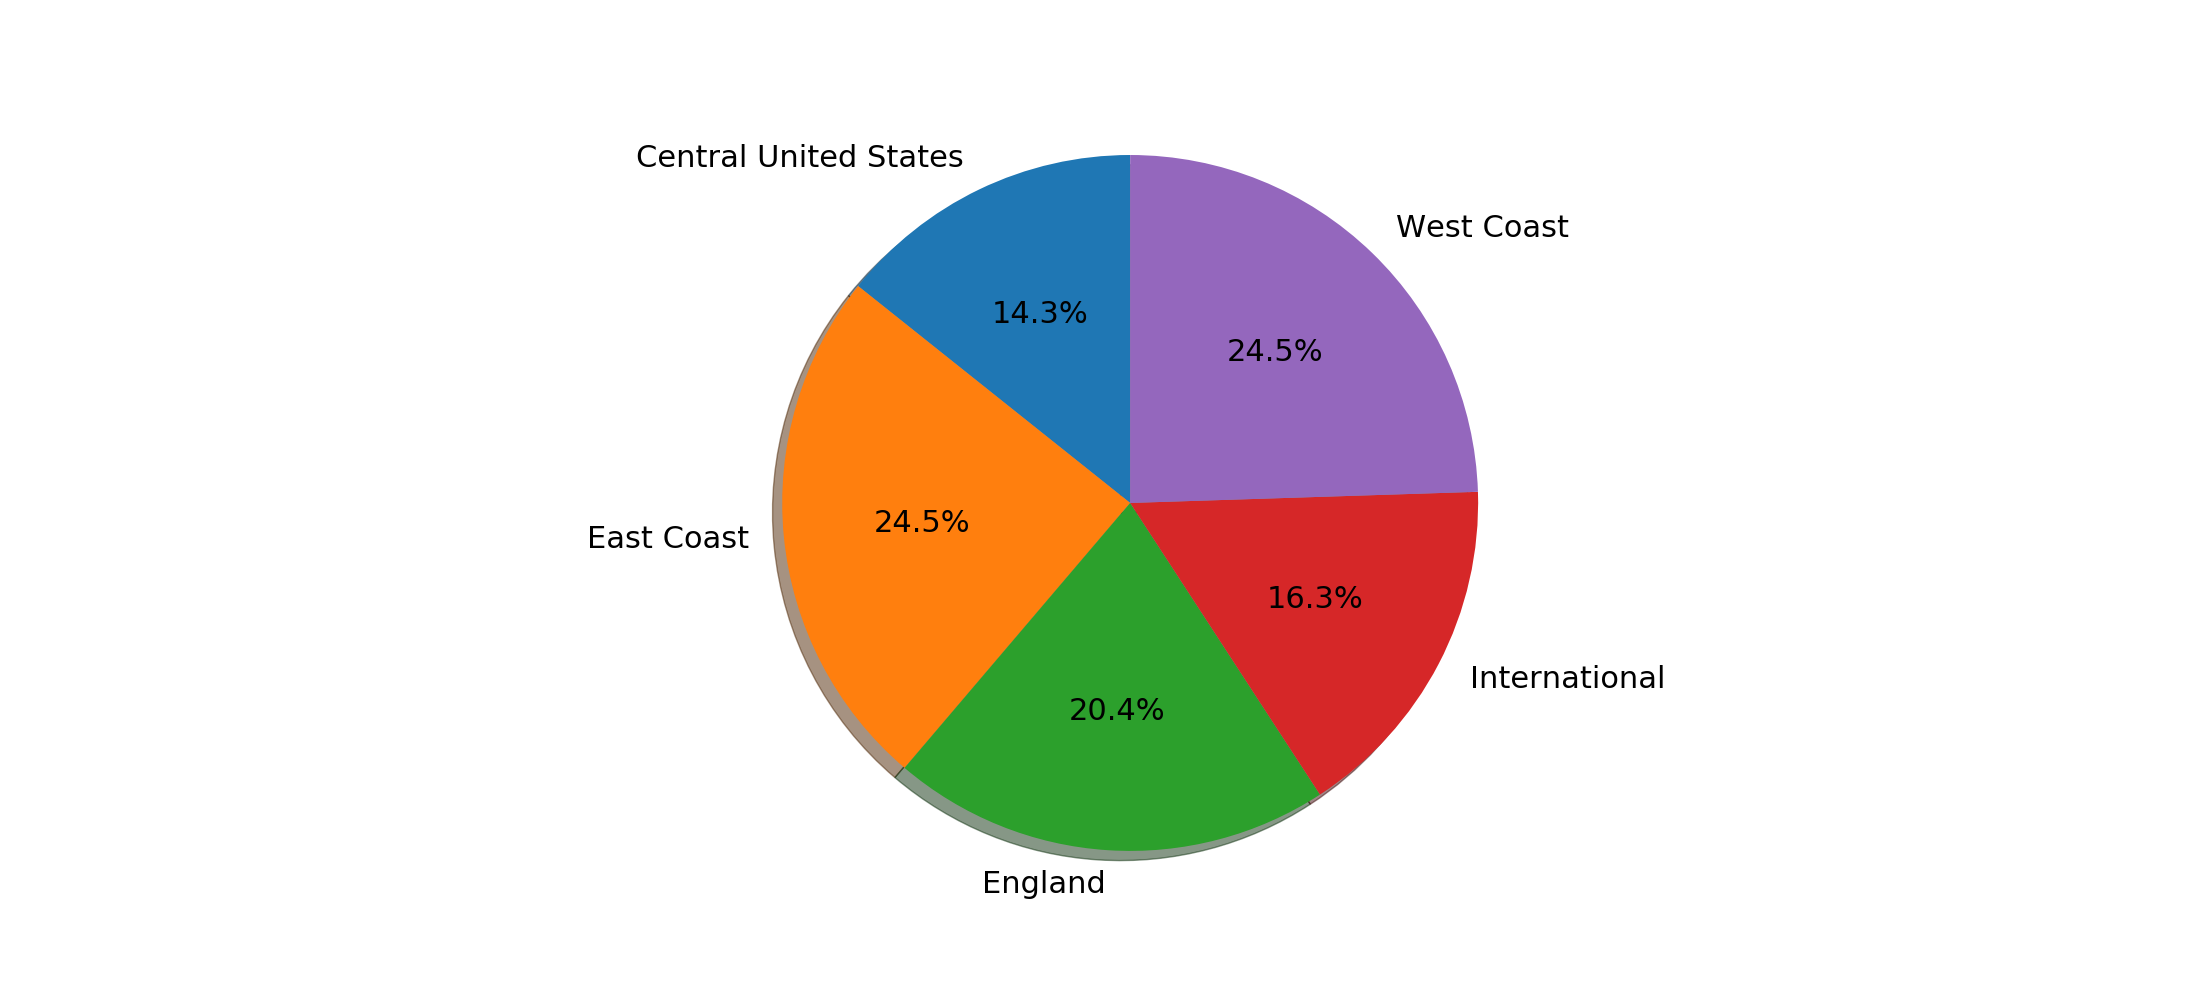
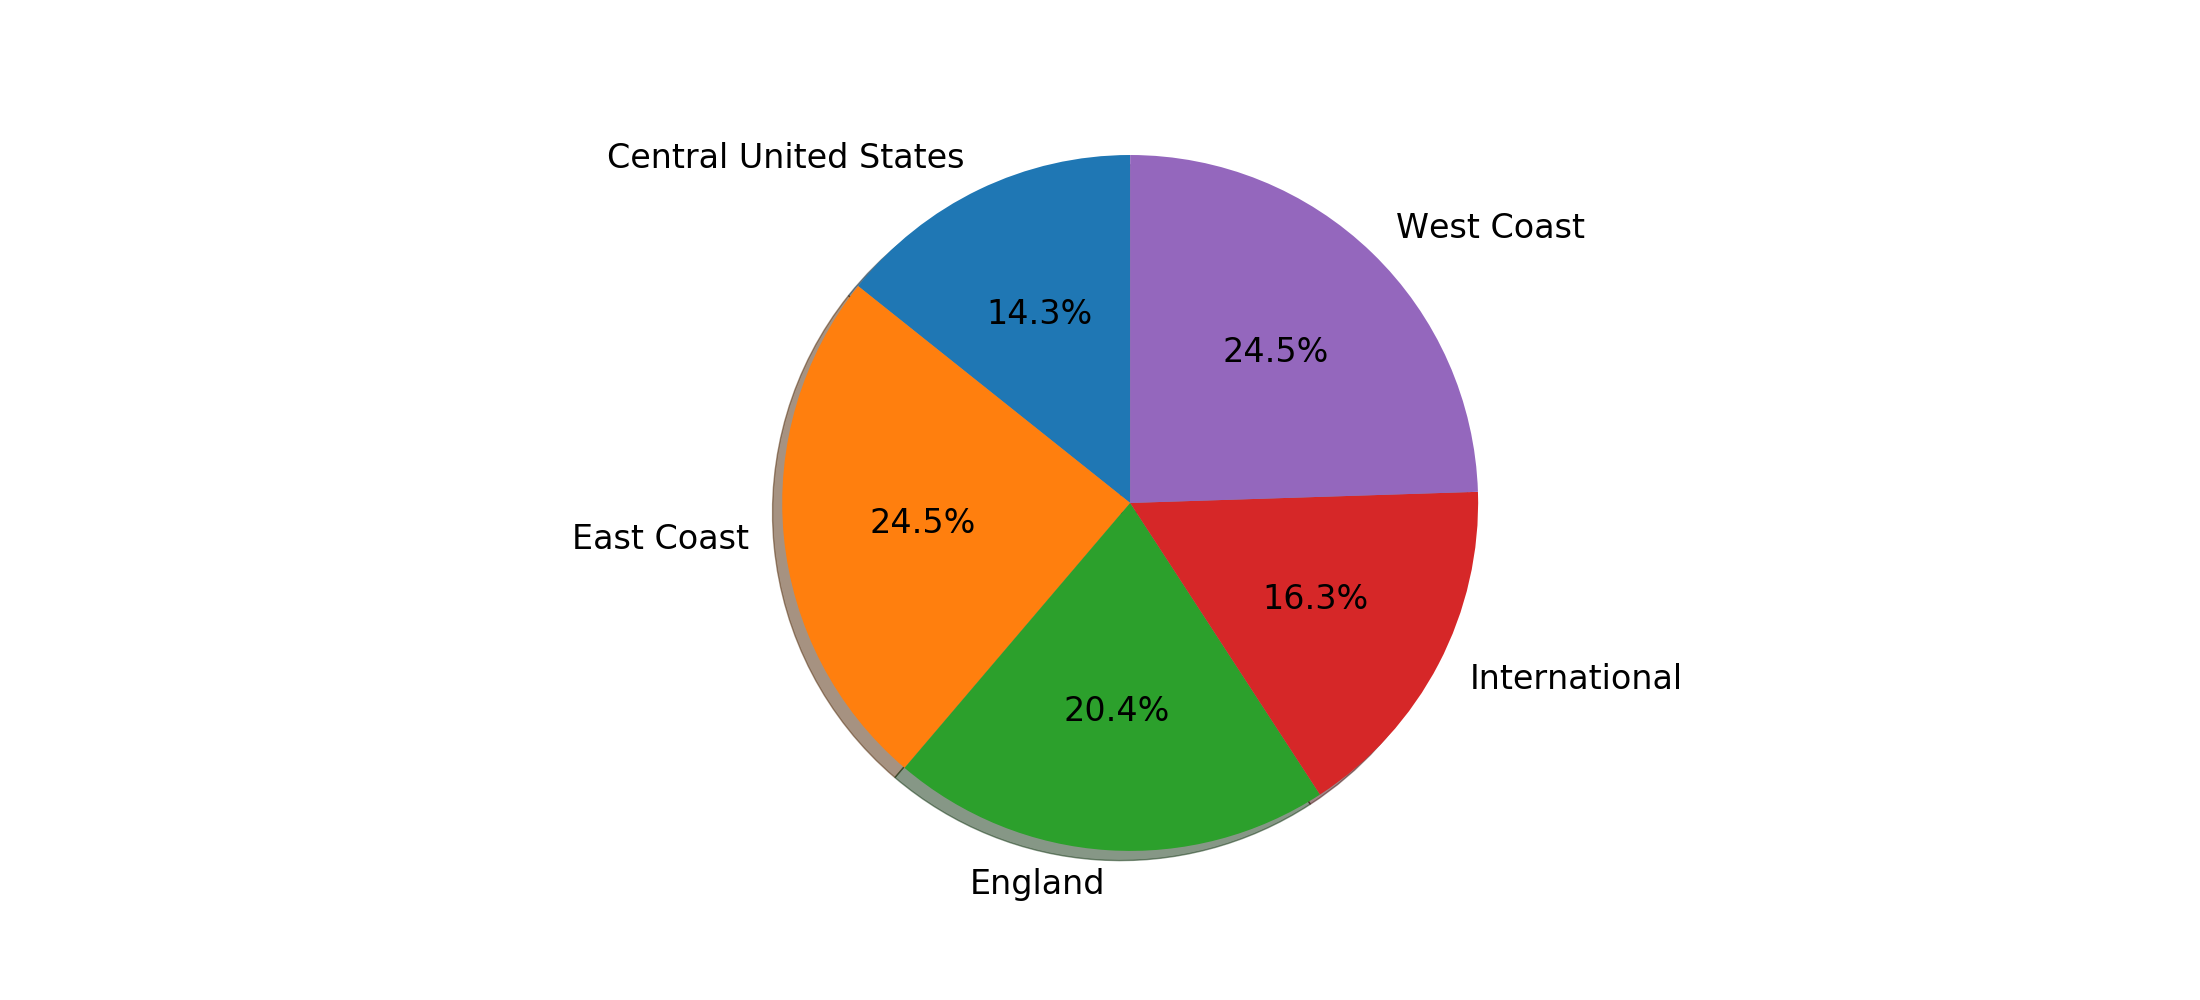
Plot text sizes

diff --git a/data/plot.py b/data/plot.py
@@ -175,6 +175,7 @@ def generate_release_dates_chart(listOfYears, filename=None, ticks_filter=None,
 
     if filename:
         label = filename[:-1] if filename not in ['minutes', 'bpm', 'key'] else filename
+        label = label.capitalize()
         if filename == 'bpm':
             label = 'BPM'
         plt.xlabel(label.capitalize())
@@ -183,7 +184,7 @@ def generate_release_dates_chart(listOfYears, filename=None, ticks_filter=None,
 
 
 def generate_origin_piechart(origins, filename=None):
-    set_plt_size(plt, width=22, height=10, font_size=22)
+    set_plt_size(plt, width=22, height=10, font_size=24)
     labels = origins.keys()
     sizes = [origins[a]/len(origins) for a in labels]
     fig1, ax1 = plt.subplots()
